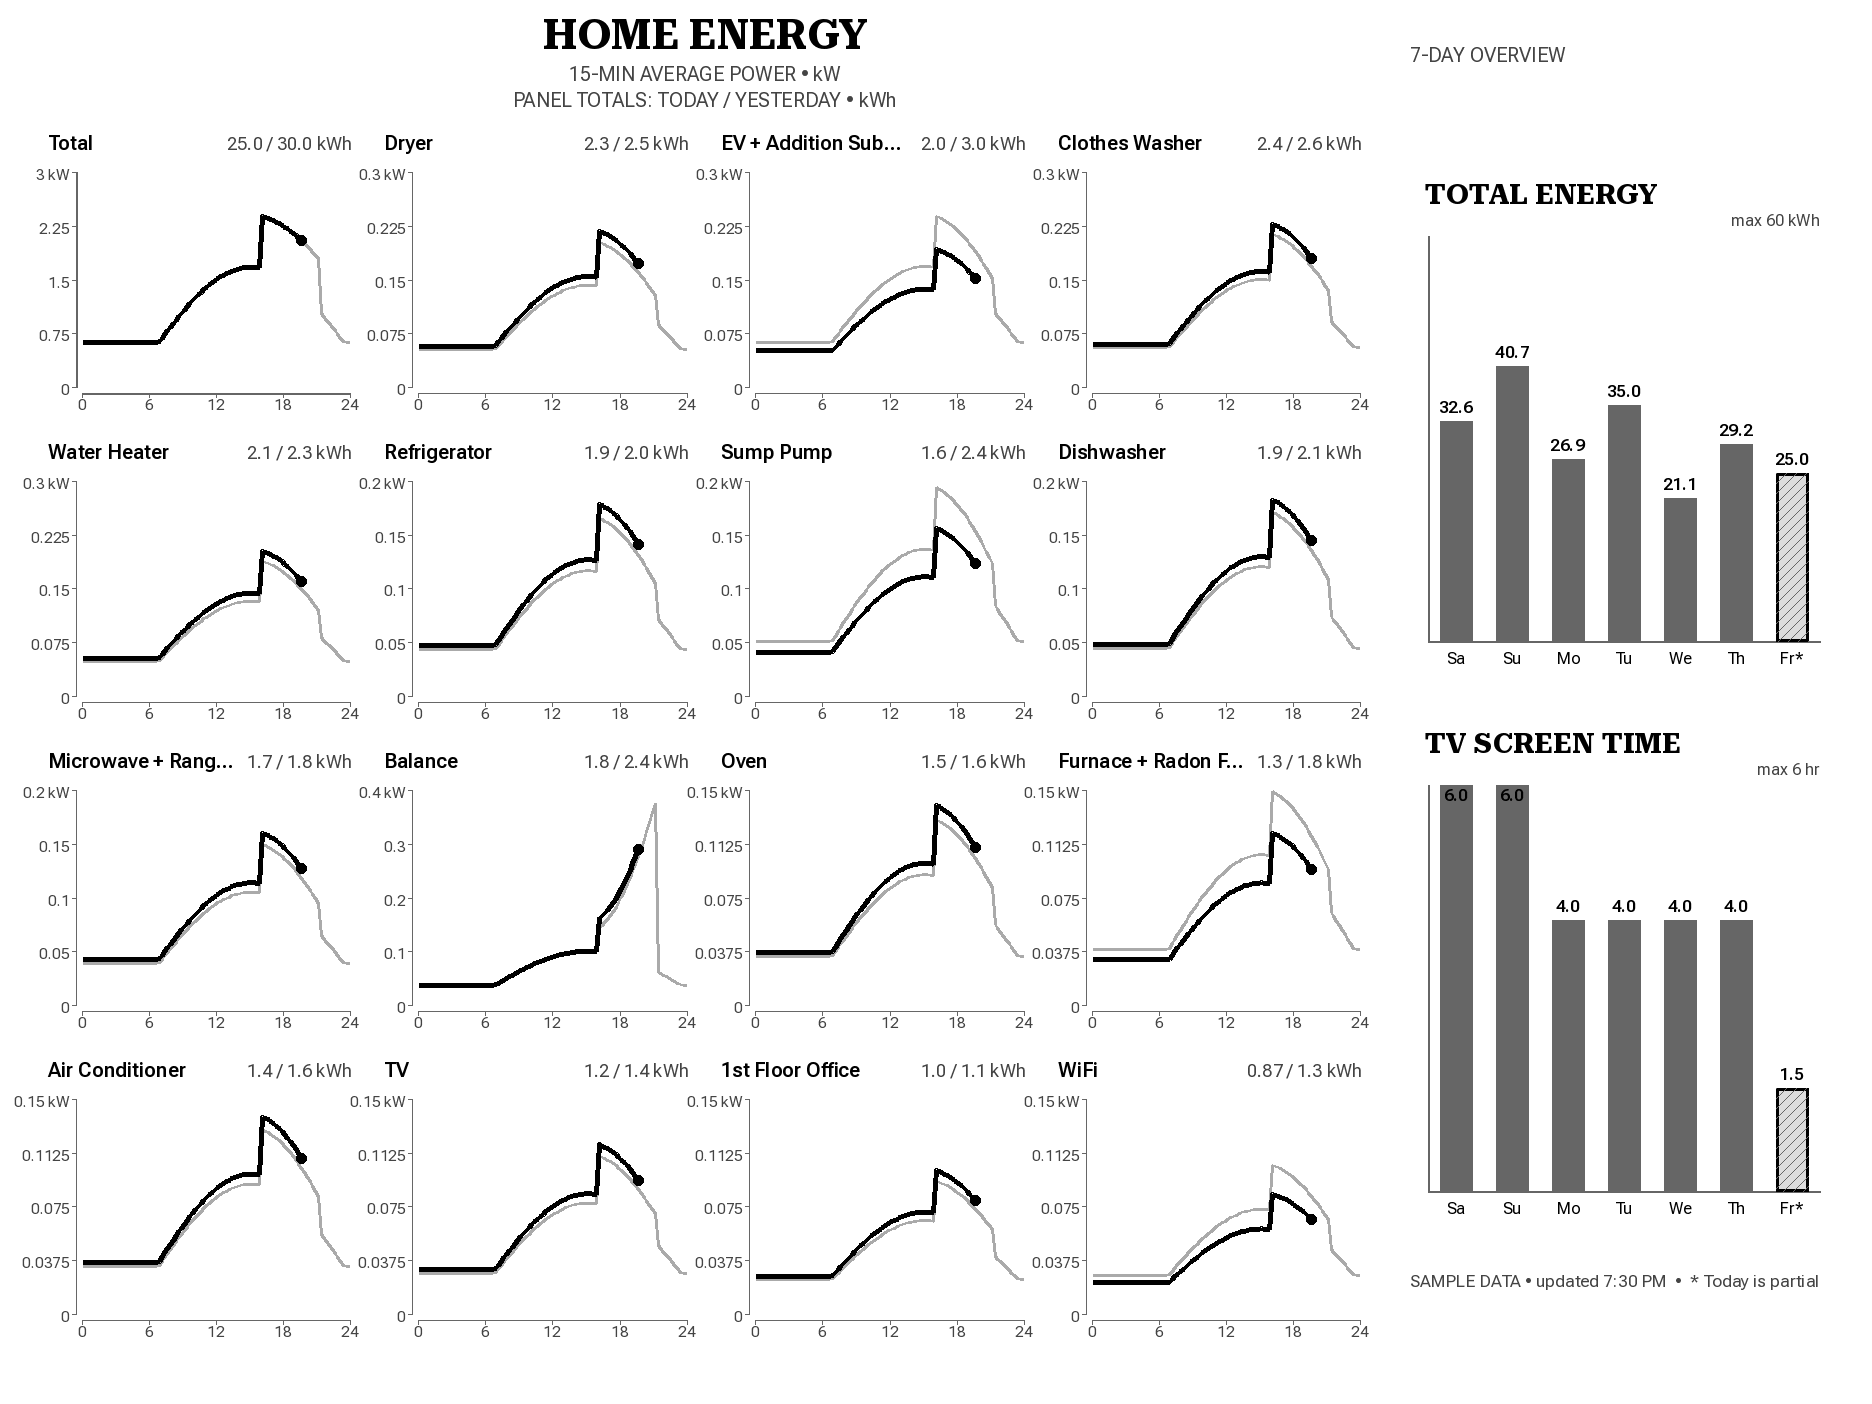
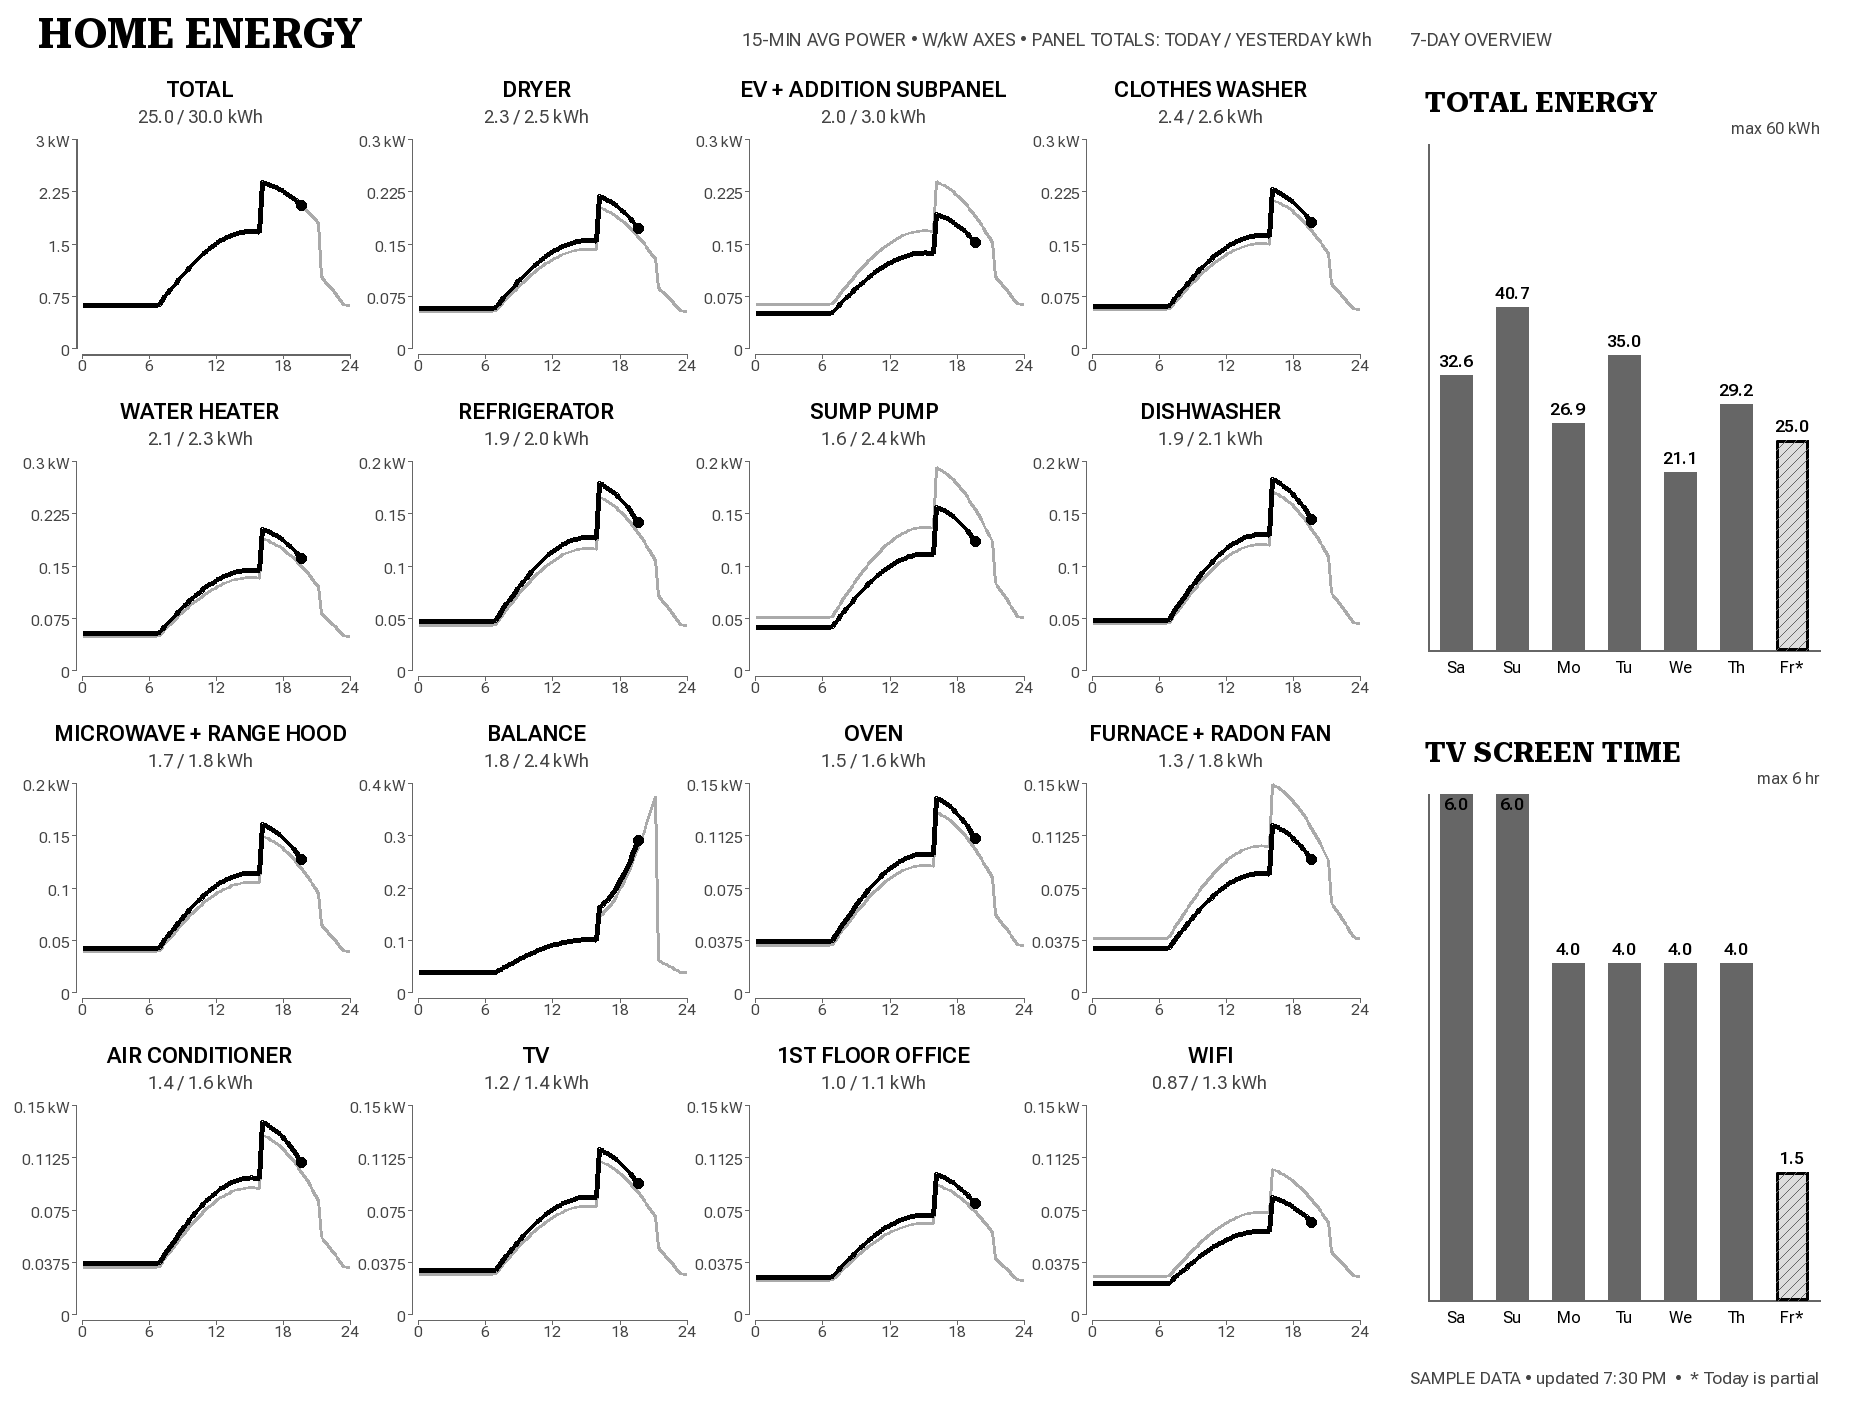
Refine energy dashboard layout and units

diff --git a/src/trmnl_weekly_calendar/energy_render.py b/src/trmnl_weekly_calendar/energy_render.py
@@ -6,7 +6,7 @@ from pathlib import Path
 from typing import Sequence
 from zoneinfo import ZoneInfo
 
-from PIL import Image, ImageDraw, ImageFont
+from PIL import Image, ImageDraw
 
 from trmnl_weekly_calendar.energy_data import (
     AveragePowerPoint,
@@ -28,15 +28,14 @@ GRID_ROWS = 4
 DISPLAY_DAYS = 7
 
 CANVAS_MARGIN = 38
-HEADER_BOTTOM = 124
+HEADER_BOTTOM = 72
 CONTENT_BOTTOM = 1348
 GRID_RIGHT = 1372
 SUMMARY_LEFT = 1410
 SUMMARY_RIGHT = W - CANVAS_MARGIN
 PANEL_GAP = 12
-GRID_CENTER_X = (CANVAS_MARGIN + GRID_RIGHT) // 2
-GRID_SUBTITLE = "15-MIN AVERAGE POWER • kW"
-GRID_TOTALS_KEY = "PANEL TOTALS: TODAY / YESTERDAY • kWh"
+SUMMARY_GAP = 24
+GRID_DESCRIPTION = "15-MIN AVG POWER • W/kW AXES • PANEL TOTALS: TODAY / YESTERDAY kWh"
 SPINE_OFFSET = 6
 Y_TICK_DIVISIONS = 4
 
@@ -53,8 +52,8 @@ ROBOTO_FLEX = FONT_DIR / "RobotoFlex.ttf"
 
 FONTS = {
     "title": font(ROBOTO_SERIF, 42, "Bold"),
-    "subtitle": font(ROBOTO_FLEX, 20, "Regular", browser_optical_size=True),
-    "panel": font(ROBOTO_FLEX, 20, "SemiBold", browser_optical_size=True),
+    "subtitle": font(ROBOTO_FLEX, 18, "Regular", browser_optical_size=True),
+    "panel": font(ROBOTO_FLEX, 22, "SemiBold", browser_optical_size=True),
     "panel_value": font(ROBOTO_FLEX, 18, "Regular", browser_optical_size=True),
     "axis": font(ROBOTO_FLEX, 15, "Regular", browser_optical_size=True),
     "chart_title": font(ROBOTO_SERIF, 29, "Bold"),
@@ -78,13 +77,10 @@ def render_energy_image(
     for index, panel in enumerate(panels):
         draw_energy_panel(draw, panel, panel_box(index), emphasize=index == 0)
 
-    chart_gap = 24
-    chart_top = 164
-    chart_bottom = 1239
-    chart_height = (chart_bottom - chart_top - chart_gap) // 2
+    energy_box, screen_time_box = summary_chart_boxes()
     draw_daily_bars(
         draw,
-        (SUMMARY_LEFT, chart_top, SUMMARY_RIGHT, chart_top + chart_height),
+        energy_box,
         "TOTAL ENERGY",
         dashboard.daily_mains,
         "kWh",
@@ -92,12 +88,7 @@ def render_energy_image(
     )
     draw_daily_bars(
         draw,
-        (
-            SUMMARY_LEFT,
-            chart_top + chart_height + chart_gap,
-            SUMMARY_RIGHT,
-            chart_bottom,
-        ),
+        screen_time_box,
         "TV SCREEN TIME",
         dashboard.daily_tv_hours,
         "hr",
@@ -139,32 +130,35 @@ def panel_box(index: int) -> tuple[int, int, int, int]:
 
 def panel_plot_box(box: tuple[int, int, int, int]) -> tuple[int, int, int, int]:
     x0, y0, x1, y1 = box
-    return x0 + 44, y0 + 48, x1 - 12, y1 - 34
+    return x0 + 44, y0 + 67, x1 - 12, y1 - 34
+
+
+def summary_chart_boxes() -> tuple[
+    tuple[int, int, int, int], tuple[int, int, int, int]
+]:
+    chart_height = (CONTENT_BOTTOM - HEADER_BOTTOM - SUMMARY_GAP) // 2
+    first_bottom = HEADER_BOTTOM + chart_height
+    return (
+        (SUMMARY_LEFT, HEADER_BOTTOM, SUMMARY_RIGHT, first_bottom),
+        (SUMMARY_LEFT, first_bottom + SUMMARY_GAP, SUMMARY_RIGHT, CONTENT_BOTTOM),
+    )
 
 
 def draw_header(draw: ImageDraw.ImageDraw, data: EnergyDashboardData) -> None:
-    draw_centered_text(draw, "HOME ENERGY", FONTS["title"], 10, GRID_CENTER_X, BLACK)
-    draw_centered_text(draw, GRID_SUBTITLE, FONTS["subtitle"], 62, GRID_CENTER_X, TEXT_GRAY)
-    draw_centered_text(draw, GRID_TOTALS_KEY, FONTS["subtitle"], 88, GRID_CENTER_X, TEXT_GRAY)
+    draw.text((CANVAS_MARGIN, 9), "HOME ENERGY", font=FONTS["title"], fill=BLACK)
+    description_width, _ = text_wh(draw, GRID_DESCRIPTION, FONTS["subtitle"])
     draw.text(
-        (SUMMARY_LEFT, 43),
+        (GRID_RIGHT - description_width, 29),
+        GRID_DESCRIPTION,
+        font=FONTS["subtitle"],
+        fill=TEXT_GRAY,
+    )
+    draw.text(
+        (SUMMARY_LEFT, 29),
         "7-DAY OVERVIEW",
         font=FONTS["subtitle"],
         fill=TEXT_GRAY,
     )
-
-
-def draw_centered_text(
-    draw: ImageDraw.ImageDraw,
-    text: str,
-    text_font: ImageFont.FreeTypeFont,
-    y: int,
-    center_x: int,
-    fill: int,
-) -> None:
-    width, _ = text_wh(draw, text, text_font)
-    draw.text((center_x - width / 2, y), text, font=text_font, fill=fill)
-
 
 def draw_energy_panel(
     draw: ImageDraw.ImageDraw,
@@ -174,9 +168,9 @@ def draw_energy_panel(
     emphasize: bool,
 ) -> None:
     x0, y0, x1, y1 = box
-    label, totals, totals_x = panel_header_layout(draw, series, box)
-    draw.text((x0 + 10, y0 + 7), label, font=FONTS["panel"], fill=BLACK)
-    draw.text((totals_x, y0 + 9), totals, font=FONTS["panel_value"], fill=TEXT_GRAY)
+    label, totals, label_x, totals_x = panel_header_layout(draw, series, box)
+    draw.text((label_x, y0 + 4), label, font=FONTS["panel"], fill=BLACK)
+    draw.text((totals_x, y0 + 34), totals, font=FONTS["panel_value"], fill=TEXT_GRAY)
 
     plot = panel_plot_box(box)
     px0, py0, px1, py1 = plot
@@ -198,7 +192,7 @@ def draw_energy_panel(
         draw.line((left_x - 4, y, left_x, y), fill=FRAME_GRAY, width=1)
         label = axis_tick_label(value, maximum)
         if index == Y_TICK_DIVISIONS:
-            label = f"{label} kW"
+            label = f"{label} {axis_display_unit(maximum)}"
         label_width, label_height = text_wh(draw, label, FONTS["axis"])
         draw.text(
             (left_x - label_width - 6, y - label_height / 2),
@@ -231,29 +225,42 @@ def y_tick_values(maximum: float) -> tuple[float, ...]:
 
 
 def axis_tick_label(value: float, maximum: float) -> str:
-    """Keep quarter-step ticks distinct even on very small circuit scales."""
+    """Format a tick in W for light scales and kW for larger scales."""
 
     if value == 0:
         return "0"
-    step_text = f"{maximum / Y_TICK_DIVISIONS:.6f}".rstrip("0")
+    multiplier = 1_000 if axis_display_unit(maximum) == "W" else 1
+    display_value = value * multiplier
+    display_step = maximum * multiplier / Y_TICK_DIVISIONS
+    step_text = f"{display_step:.6f}".rstrip("0")
     precision = len(step_text.partition(".")[2])
-    return f"{value:.{precision}f}".rstrip("0").rstrip(".")
+    return f"{display_value:.{precision}f}".rstrip("0").rstrip(".")
+
+
+def axis_display_unit(maximum: float) -> str:
+    return "W" if maximum <= 0.1 else "kW"
 
 
 def panel_header_layout(
     draw: ImageDraw.ImageDraw,
     series: EnergyPlotSeries,
     box: tuple[int, int, int, int],
-) -> tuple[str, str, int]:
-    """Fit a circuit name beside explicit today/yesterday daily kWh totals."""
+) -> tuple[str, str, int, int]:
+    """Center an uppercase circuit name above its daily kWh totals."""
 
     x0, _, x1, _ = box
     totals = panel_totals_text(series)
+    available_width = max(1, x1 - x0 - 20)
+    label = ellipsize(draw, series.label.upper(), FONTS["panel"], available_width)
+    label_width, _ = text_wh(draw, label, FONTS["panel"])
     totals_width, _ = text_wh(draw, totals, FONTS["panel_value"])
-    totals_x = x1 - totals_width - 10
-    label_width = max(1, totals_x - (x0 + 10) - 8)
-    label = ellipsize(draw, series.label, FONTS["panel"], label_width)
-    return label, totals, round(totals_x)
+    center_x = (x0 + x1) / 2
+    return (
+        label,
+        totals,
+        round(center_x - label_width / 2),
+        round(center_x - totals_width / 2),
+    )
 
 
 def panel_totals_text(series: EnergyPlotSeries) -> str:
@@ -269,7 +276,8 @@ def panel_kwh(value: float) -> str:
 
 def panel_y_max(series: EnergyPlotSeries) -> float:
     values = [point.kw for point in (*series.yesterday, *series.today)]
-    return rounded_axis_max(max(values, default=0.0))
+    maximum = max(values, default=0.0)
+    return 0.1 if maximum <= 0 else rounded_axis_max(maximum)
 
 
 def rounded_axis_max(value: float) -> float:
@@ -405,7 +413,7 @@ def draw_footer(draw: ImageDraw.ImageDraw, data: EnergyDashboardData) -> None:
     message = f"{source}{freshness}  •  * Today is partial"
     if data.message and data.source != "mock":
         message = f"{message}  •  {data.message}"
-    draw.text((SUMMARY_LEFT, 1271), message, font=FONTS["note"], fill=TEXT_GRAY)
+    draw.text((SUMMARY_LEFT, 1368), message, font=FONTS["note"], fill=TEXT_GRAY)
 
 
 def compact_number(value: float) -> str:

diff --git a/tests/test_energy_render.py b/tests/test_energy_render.py
@@ -12,12 +12,14 @@ from PIL import Image, ImageDraw
 
 from trmnl_weekly_calendar.energy_data import AveragePowerPoint, mock_energy_dashboard
 from trmnl_weekly_calendar.energy_render import (
+    axis_display_unit,
     axis_tick_label,
+    CONTENT_BOTTOM,
     DISPLAY_DAYS,
     FONTS,
-    GRID_SUBTITLE,
-    GRID_TOTALS_KEY,
+    GRID_DESCRIPTION,
     H,
+    HEADER_BOTTOM,
     PANEL_COUNT,
     W,
     panel_box,
@@ -31,6 +33,7 @@ from trmnl_weekly_calendar.energy_render import (
     power_line_segments,
     render_energy_image,
     stable_plot_series,
+    summary_chart_boxes,
     write_energy_output,
     y_tick_values,
 )
@@ -78,7 +81,6 @@ class EnergyRenderTests(unittest.TestCase):
     def test_small_multiples_have_detached_spines_without_grid_guides(self) -> None:
         image = render_energy_image(self.data)
 
-        self.assertEqual(image.crop((1410, 103, 1780, 140)).getextrema(), (255, 255))
         for index in range(PANEL_COUNT):
             box = panel_box(index)
             corners = (
@@ -100,30 +102,35 @@ class EnergyRenderTests(unittest.TestCase):
             x = round(px0 + hour / 24 * (px1 - px0))
             self.assertEqual(image.getpixel((x, py0 + 8)), 255)
 
-        self.assertEqual(image.getpixel((1410, 164)), 255)
-        self.assertEqual(image.getpixel((1428, 244)), 105)
-
-    def test_grid_distinguishes_plot_power_from_daily_energy_totals(self) -> None:
-        self.assertEqual(
-            GRID_SUBTITLE,
-            "15-MIN AVERAGE POWER • kW",
-        )
-        self.assertEqual(GRID_TOTALS_KEY, "PANEL TOTALS: TODAY / YESTERDAY • kWh")
+    def test_compact_header_description_distinguishes_power_and_energy(self) -> None:
+        self.assertIn("W/kW AXES", GRID_DESCRIPTION)
+        self.assertIn("TODAY / YESTERDAY kWh", GRID_DESCRIPTION)
         self.assertEqual(panel_kwh(12.345), "12.3")
         self.assertEqual(panel_kwh(0.456), "0.46")
 
         image = Image.new("L", (W, H), 255)
         draw = ImageDraw.Draw(image)
         for index, series in enumerate(stable_plot_series(self.data.series)):
-            x0, _, _, _ = panel_box(index)
-            label, totals, totals_x = panel_header_layout(
+            x0, _, x1, _ = panel_box(index)
+            label, totals, label_x, totals_x = panel_header_layout(
                 draw, series, panel_box(index)
             )
             label_width = draw.textbbox((0, 0), label, font=FONTS["panel"])[2]
+            totals_width = draw.textbbox((0, 0), totals, font=FONTS["panel_value"])[2]
 
+            self.assertEqual(label, label.upper())
             self.assertEqual(totals, panel_totals_text(series))
             self.assertTrue(totals.endswith(" kWh"))
-            self.assertLessEqual(x0 + 10 + label_width + 8, totals_x)
+            self.assertAlmostEqual((x0 + x1) / 2, label_x + label_width / 2, delta=1)
+            self.assertAlmostEqual((x0 + x1) / 2, totals_x + totals_width / 2, delta=1)
+
+    def test_summary_charts_span_the_full_grid_height(self) -> None:
+        energy_box, screen_time_box = summary_chart_boxes()
+
+        self.assertEqual(HEADER_BOTTOM, energy_box[1])
+        self.assertEqual(CONTENT_BOTTOM, screen_time_box[3])
+        self.assertEqual(energy_box[0], screen_time_box[0])
+        self.assertEqual(energy_box[2], screen_time_box[2])
 
     def test_today_line_stops_at_latest_sample(self) -> None:
         total = stable_plot_series(self.data.series)[0]
@@ -155,9 +162,22 @@ class EnergyRenderTests(unittest.TestCase):
             tuple(round(value, 10) for value in y_tick_values(0.2)),
         )
         self.assertEqual(
-            ("0", "0.0025", "0.005", "0.0075", "0.01"),
+            ("0", "2.5", "5", "7.5", "10"),
             tuple(axis_tick_label(value, 0.01) for value in y_tick_values(0.01)),
         )
+        self.assertEqual("W", axis_display_unit(0.08))
+        self.assertEqual("W", axis_display_unit(0.1))
+        self.assertEqual("kW", axis_display_unit(0.15))
+
+    def test_empty_panel_uses_100_watt_default_scale(self) -> None:
+        empty = replace(
+            stable_plot_series(self.data.series)[0],
+            yesterday=(),
+            today=(),
+        )
+
+        self.assertEqual(0.1, panel_y_max(empty))
+        self.assertEqual("W", axis_display_unit(panel_y_max(empty)))
 
     def test_power_line_segments_split_at_missing_bucket(self) -> None:
         start = datetime(2026, 8, 7, tzinfo=timezone.utc)

diff --git a/docs/agent-plans/2026-08-07-energy-layout-refinement.md b/docs/agent-plans/2026-08-07-energy-layout-refinement.md
@@ -150,3 +150,12 @@ Not configured.
 
 - 2026-08-07: Plan created from the revised subplot-title, page-header, bar-height,
   and light-circuit unit requests.
+- 2026-08-07: Chunk 1 DONE. Added the compact left/right page header, centered
+  22 px all-caps panel names with centered kWh totals, full-grid-height summary
+  boxes, a footer below the charts, and adaptive W/kW tick formatting. All 13
+  focused renderer tests and the full 67-test suite pass with compileall, diff,
+  and exact 4-bit PNG checks.
+- 2026-08-07: Final review removed the now-unused centered-header helper and found
+  no remaining correctness, integration, regression, or unrelated-change issues.
+  Mock and live images were visually inspected; live light circuits use W while
+  larger circuits retain kW. Published public fingerprint `a15d0dacbae40c34`.
